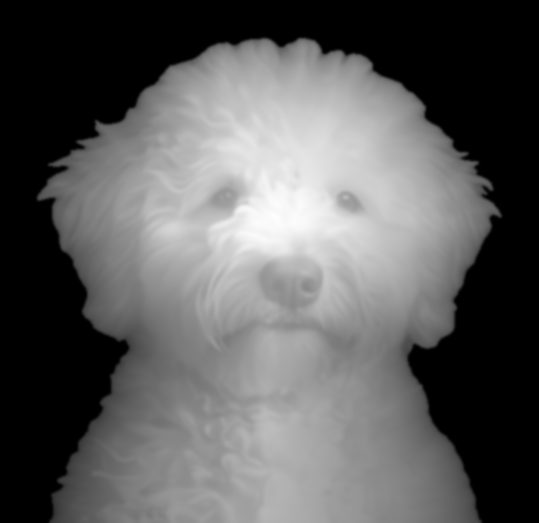
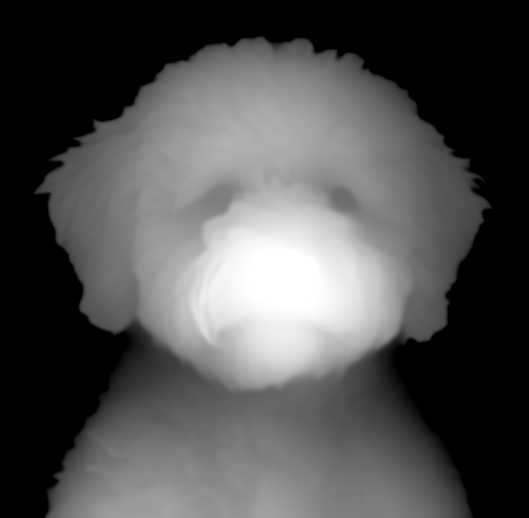
Микки: реальная глубина Depth Anything V2 + параметры со скрина (12000/0.45/1.25)

diff --git a/src/components/MentoringPanel.tsx b/src/components/MentoringPanel.tsx
@@ -54,10 +54,10 @@ export default function MentoringPanel({ className = "" }: { className?: string 
               className="absolute inset-0 w-full h-full"
               trackingRef={ref}
               shapes={PORTRAIT}
-              count={4200}
+              count={12000}
               color={[255, 255, 255]}
-              depthScale={0.6}
-              pointScale={0.6}
+              depthScale={0.45}
+              pointScale={1.25}
               tilt={0.5}
               assembleOnHover
               latchAssemble
